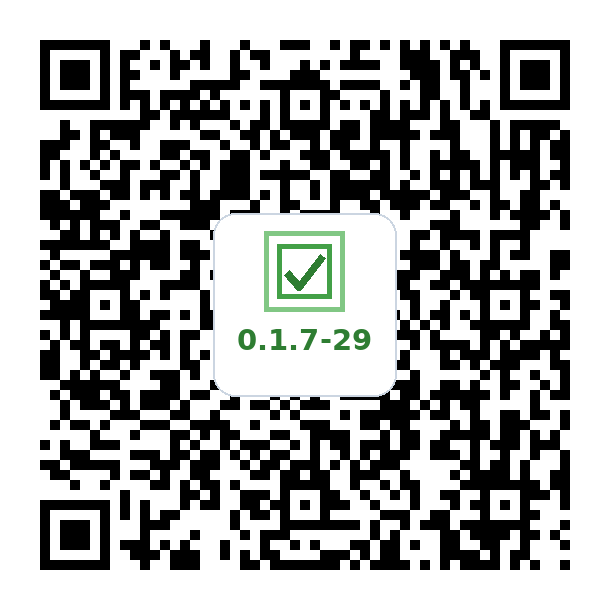
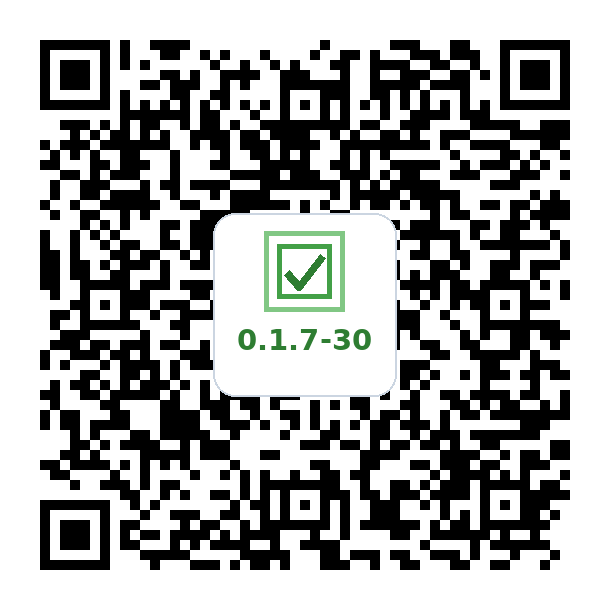
deploy: feaa161c85f159f8d63048a7b8abac28532cecac

Changed region(s): [[0.0623, 0.0623, 0.9344, 0.9344], [0.5607, 0.5295, 0.623, 0.5918]]

diff --git a/index.html b/index.html
@@ -201,19 +201,19 @@
           <div class="qr-row">
             <div class="qr-container">
             <div class="qr-label">Stable Release</div>
-            <img src="qr-main.png" alt="MicroTasking APK QR Code (v0.1.7-29)">
+            <img src="qr-main.png" alt="MicroTasking APK QR Code (v0.1.7-30)">
             <br>
-            <a href="https://github.com/vemcg/MicroTasking/releases/download/v0.1.7-29/MicroTasking-v0.1.7-29.apk" class="btn" target="_blank" rel="noopener">Download MicroTasking APK (v0.1.7-29)</a>
+            <a href="https://github.com/vemcg/MicroTasking/releases/download/v0.1.7-30/MicroTasking-v0.1.7-30.apk" class="btn" target="_blank" rel="noopener">Download MicroTasking APK (v0.1.7-30)</a>
             <br>
-            <a href="https://github.com/vemcg/MicroTasking/releases/download/v0.1.7-29/MicroTasking-v0.1.7-29.apk" target="_blank" rel="noopener">Open the download again</a>
+            <a href="https://github.com/vemcg/MicroTasking/releases/download/v0.1.7-30/MicroTasking-v0.1.7-30.apk" target="_blank" rel="noopener">Open the download again</a>
           </div>
             <div class="qr-container">
             <div class="qr-label">tasking-logic</div>
-            <img src="qr.png" alt="MicroTasking APK QR Code (v0.1.7-32-tasking-logic)">
+            <img src="qr.png" alt="MicroTasking APK QR Code (v0.1.7-33-tasking-logic)">
             <br>
-            <a href="https://github.com/vemcg/MicroTasking/releases/download/v0.1.7-32-tasking-logic/MicroTasking-v0.1.7-32-tasking-logic.apk" class="btn" target="_blank" rel="noopener">Download MicroTasking APK (v0.1.7-32-tasking-logic)</a>
+            <a href="https://github.com/vemcg/MicroTasking/releases/download/v0.1.7-33-tasking-logic/MicroTasking-v0.1.7-33-tasking-logic.apk" class="btn" target="_blank" rel="noopener">Download MicroTasking APK (v0.1.7-33-tasking-logic)</a>
             <br>
-            <a href="https://github.com/vemcg/MicroTasking/releases/download/v0.1.7-32-tasking-logic/MicroTasking-v0.1.7-32-tasking-logic.apk" target="_blank" rel="noopener">Open the download again</a>
+            <a href="https://github.com/vemcg/MicroTasking/releases/download/v0.1.7-33-tasking-logic/MicroTasking-v0.1.7-33-tasking-logic.apk" target="_blank" rel="noopener">Open the download again</a>
           </div>
           </div>
         </li>
